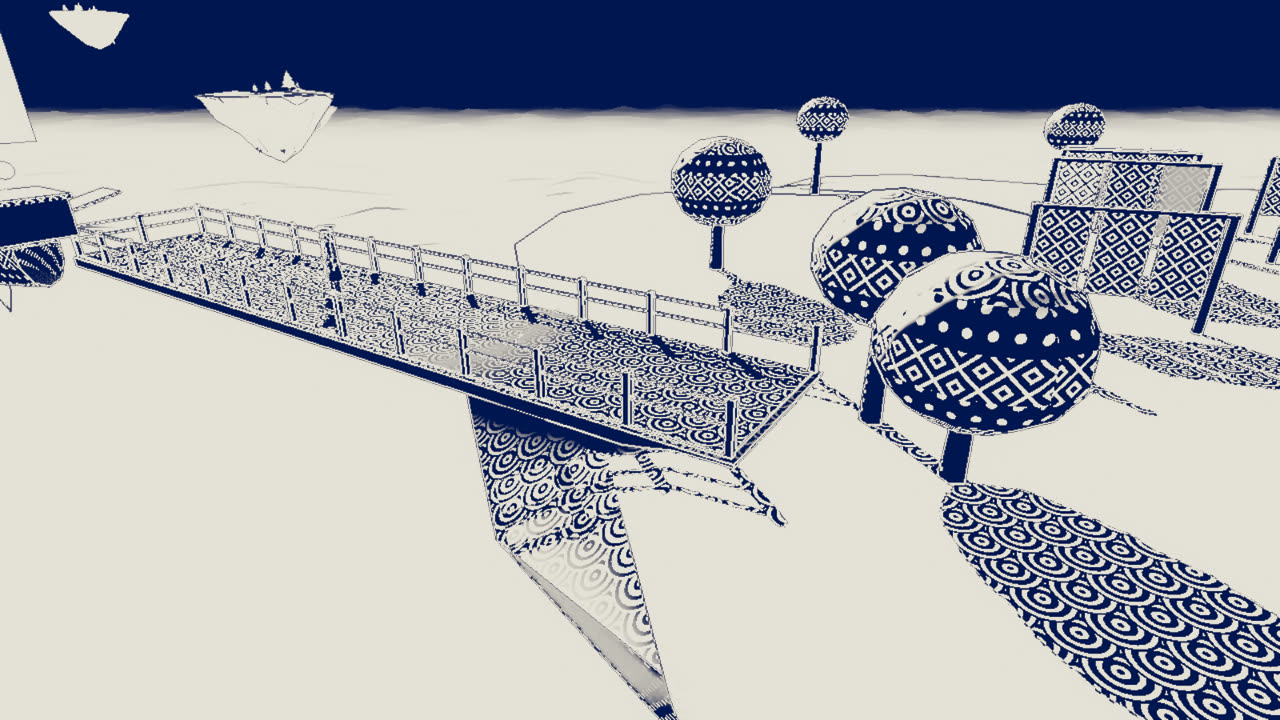
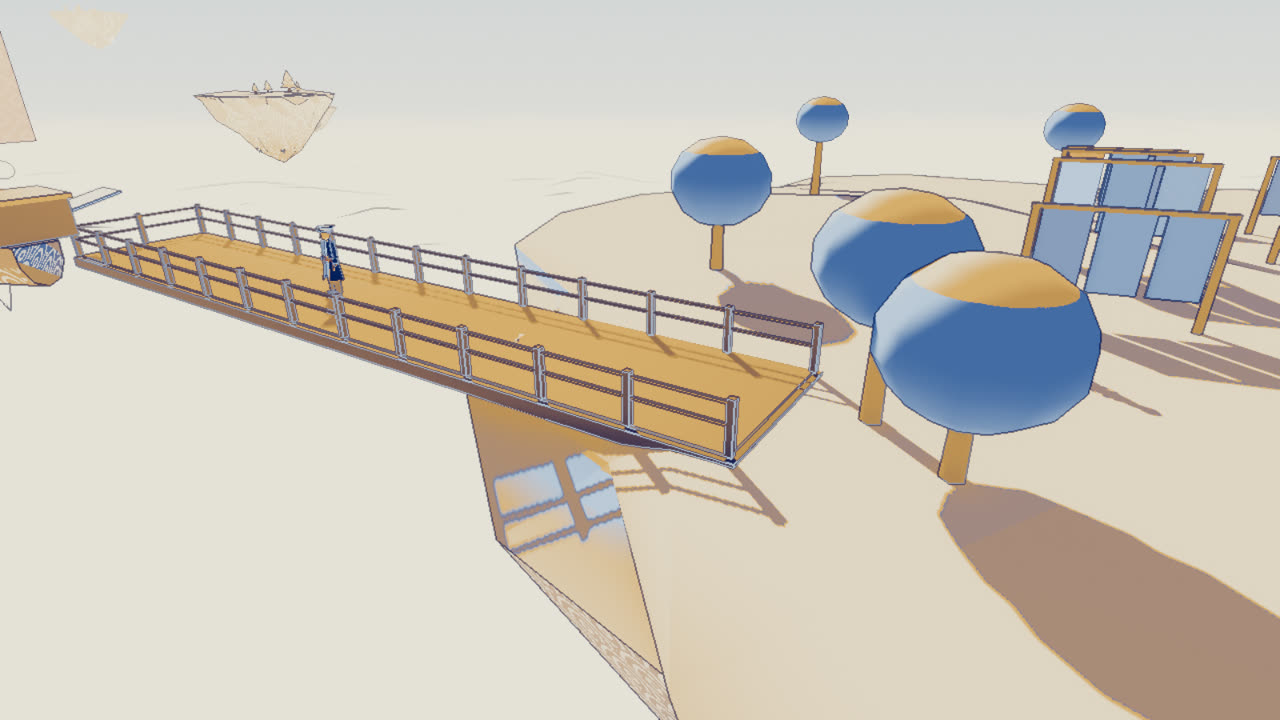
game3d: katazome reworked after sheet 28 — several blues, ochre and rust, soft tones, rare large patterns that do not shimmer (ADR-0029 revised)

diff --git a/docs/demo/G3D-techniques.md b/docs/demo/G3D-techniques.md
@@ -2,21 +2,30 @@
 
 Aika chose the techniques and drew the sheets (`docs/design/concepts/27…34`). They replace the two I had guessed.
 
-## Silk Reach — katazome (sheets 27, 28)
-Indigo `#1f2f5a` and cream `#efe6d2` with nothing between; a rare rust accent `#b5523b`; a line of the colour the
-shape is not; small patterns cut into the half-tones — waves on what faces the sky, diamonds on walls, dots on what
-leans — **laid out in world space**, so they stay on the thing when the camera moves; a cotton weave.
+## Silk Reach — katazome (sheet 28; sheet 27 for the motifs)
+The first version followed the strict sheet 27: indigo and cream only, patterns in every half-tone. Aika: "blue and
+white is too simple and hard to look at, the eyes begin to hurt, more colours are needed". It was redone after
+sheet 28: **several blues** (deep indigo `#1f2f5a`, middle `#4f6a94`, pale `#a9bcd2`), **ochre `#c79a63` and sand**
+for rock, timber and the ground, **rust `#b5523b`** for cloth and accents, **cream paper `#efe6d2`**, soft steps
+between tones. Patterns only on cloth, roofs and the cloud sea, large and faint, in world space.
 
-| Before ("printed silk") | After (katazome) |
-|---|---|
-| ![](g3d-techniques/before-silk.jpg) | ![](g3d-techniques/after-silk.jpg) |
-| ![](g3d-techniques/before-silk-houses.jpg) | ![](g3d-techniques/after-silk-houses.jpg) |
+| Before ("printed silk", my guess) | Strict katazome (sheet 27) — too harsh | Now (sheet 28) |
+|---|---|---|
+| ![](g3d-techniques/before-silk.jpg) | ![](g3d-techniques/strict-silk.jpg) | ![](g3d-techniques/after-silk.jpg) |
+| ![](g3d-techniques/before-silk-houses.jpg) | ![](g3d-techniques/strict-silk-houses.jpg) | ![](g3d-techniques/after-silk-houses.jpg) |
 
-The landing, and the second mode (V): the bare stencil, two colours and no patterns.
+The landing; and the second mode (V): the same without rust and patterns.
 
 | | |
 |---|---|
-| ![](g3d-techniques/after-silk-landing.jpg) | ![](g3d-techniques/silk-stencil.jpg) |
+| ![](g3d-techniques/after-silk-landing.jpg) | ![](g3d-techniques/silk-plain.jpg) |
+
+**On the move.** A camera walks 12 m across the island, a frame every 0.1 s (`--stroll=<dir>`). The mean change
+between neighbouring frames was 30.6 of 255 with the strict version and is 10.9 now; what is left is the motion
+itself. Recordings: [strict](g3d-techniques/walking-strict.gif), [now](g3d-techniques/walking-after.gif). Each
+pattern is faded out before its cell is smaller than about 14–30 pixels, with the angle of the surface counted in.
+
+![](g3d-techniques/silk-walking.jpg)
 
 ## Amber Cliff — pen and watercolour (sheets 29–34)
 A thin warm-grey line that trembles and presses and lifts; washes that run past the line; a lot of bare paper,
@@ -50,6 +59,7 @@ the other and ends with one style; every port tells the effect where the hero st
 ```
 godot --path game3d --resolution 1600x900 -- --views=<dir> --only=silk --ink=1      # or amber, --ink=2
 godot --path game3d --resolution 1600x900 -- --attune=<dir> --island=silk --ink=1   # or amber
+godot --path game3d --resolution 1600x900 -- --stroll=<dir> --island=silk          # a walking camera, 30 frames
 godot --path game3d --resolution 1920x1080 -- --fps=<file.json>
 ```
 
@@ -61,7 +71,8 @@ godot --path game3d --resolution 1920x1080 -- --fps=<file.json>
 
 ## Not done, not checked
 - Not played by hand.
-- Villagers on Silk Reach walk *through* the world-space pattern (it slides over them); the captain does not.
+- On Silk Reach people carry almost no pattern now (patterns are on cloth, roofs and clouds). Whether the new
+  palette is easy on the eyes over a long play is for Aika to say; frame rate was not re-measured after this rework.
 - The islands' shapes are not rebuilt to the sheets: the Japanese village, vats and banners of Silk Reach (27, 28);
   on Amber Cliff the lighthouse with the keeper's house (32), the newspaper kiosk, carousel, bicycles, flower stand
   and café chairs (33), the small house and outside stairs of the kit (30), the cliff's amber veins (29).

diff --git a/docs/design/README.md b/docs/design/README.md
@@ -5,7 +5,7 @@ Read this before changing the look of anything in `game3d/` (people, buildings, 
 Palette, light and world notes: `docs/design/game3d-style.md`. Lore: `docs/lore/world-bible.md`.
 
 > Islands: each island is drawn in a technique of its own, chosen by Aika (ADR-0026, 0029) — Spark Harbour in pen
-> and ink (the style below), Silk Reach as **katazome**, a Japanese stencil-resist print (sheets 27, 28), Amber Cliff
+> and ink (the style below), Silk Reach as **katazome**, a Japanese stencil-resist print in several blues, ochre and rust (sheet 28; 27 for the motifs), Amber Cliff
 > in **pen and watercolour**, a French travel sketchbook (sheets 29–34). The technique and its colours are a row in
 > `game3d/scripts/island_style.gd`. **The captain is redrawn in the technique of every port** by the island's wind
 > (ADR-0025); a test holds every technique to that. Pictures: `docs/demo/G3D-techniques.md`.
@@ -55,8 +55,8 @@ world; nothing is copied from a book, film or game. The palette row at the botto
 | `24-spark-harbour.jpg` | "Sheet 9 — Spark Harbour": the establishing view (mill on a stepped terrace, houses, market square, timber wharf, moored ship, rope bridges to islets, waterfall, crystals) | Spark Harbour; **not all built**: no rope bridges, islets or waterfall yet | `scripts/archipelago.gd` |
 | `25-props.jpg` | "Sheet 10 — Props": street lamp, market stall, crate, barrel, rope coil, notice board, chest, scales, ledger, spyglass, anchor, bollard, rope railing, silk rack, five picture signboards | the props of Spark Harbour (low-poly look) | `scripts/props.gd` |
 | `26-chronicler.jpg` | "Sheet 5 — The Chronicler", a **new** version: a layered slate-blue feather robe, belts, ink bottle, chained book, lantern. **Replaces `05-chronicler.jpg`** (cream cloak, blue cape) | the Chronicler in the world | `Costume._r_chronicler` |
-| `27-silk-katazome.jpg` | Silk Reach, the main sheet: **katazome** (Japanese stencil-resist print) — indigo `#1f2f5a`, cream `#efe6d2`, a rare rust `#b5523b`; cut-out silhouettes, a light line, small repeating patterns inside big shapes | the technique of Silk Reach (ADR-0029) | `shaders/ink.gdshader` (`tech == 1`), `island_style.gd` row `silk` |
-| `28-silk-katazome-loose.jpg` | Silk Reach, the secondary sheet: the same three colours, looser | reference only | — |
+| `27-silk-katazome.jpg` | Silk Reach, strict **katazome** (Japanese stencil-resist print): indigo `#1f2f5a` and cream `#efe6d2` only, patterns everywhere. **Secondary now**: Aika found it too harsh on the eyes | reference for the motifs (waves, diamonds) | — |
+| `28-silk-katazome-loose.jpg` | Silk Reach, **the main sheet**: katazome in a looser manner — several blues (deep indigo, middle, pale), sand and ochre for rock and timber, rust for cloth and accents, cream paper, soft half-tones; patterns only on big things | the technique of Silk Reach (ADR-0029) | `shaders/ink.gdshader` (`tech == 1`), `island_style.gd` row `silk` |
 | `29-amber-view.jpg` | Amber Cliff, the establishing view, in **pen and watercolour** (a French travel sketchbook) | the technique of Amber Cliff (ADR-0029); the island's shape is **not rebuilt** to it yet | `shaders/ink.gdshader` (`tech == 2`), row `amber` |
 | `30-amber-houses.jpg` | Amber Cliff, the town-house kit: mansard roof, stone base, plaster front, geranium-red door, sea-teal shutters, iron balcony | colours of `AmberCliff.townhouse`; the kit's small house and outside stairs are not built | `scripts/amber_cliff.gd` |
 | `31-amber-street.jpg` | Amber Cliff, the street of shops | reference; the game's street is wider and plainer | — |

diff --git a/docs/adr/0029-game3d-katazome-and-pen-and-watercolour.md b/docs/adr/0029-game3d-katazome-and-pen-and-watercolour.md
@@ -28,13 +28,17 @@ Forces:
 - 60 fps.
 
 ## Decision
-1. **`katazome`** replaces `dye` (technique 1). Brightness sorts the picture into cream and indigo, with nothing
-   in between; a strongly warm, saturated colour becomes the rust accent; the sky is indigo and the cloud sea cream.
-   In the middle brightnesses a small pattern is cut into the shape: waves (seigaiha) on what faces up, diamonds
-   on walls, dots elsewhere. **The pattern is laid out in world space**, on the plane the surface faces (found
-   from the depth and the normal), so it stays on the thing when the camera moves. The line is the opposite colour
-   of what it lies on: light on indigo, indigo on cream. A cotton weave lies over all. Mode 2 is the bare stencil:
-   two colours, no patterns.
+1. **`katazome`** replaces `dye` (technique 1), in the looser manner of sheet 28. *(Revised while still Proposed:
+   the first version followed sheet 27 — indigo and cream only, patterns in every half-tone. Aika: "blue and white
+   is too simple and hard to look at, the eyes begin to hurt, more colours are needed". Sheet 28 is now the main
+   one.)* The picture is sorted into two families of dyes with soft steps between their tones: **blues** (deep
+   indigo, a middle blue, a pale blue) and **earth** (ochre and sand, for rock, timber and the ground, lit or in
+   shade), both ending in cream paper. Cloth and anything truly red is **rust**. The sky is paper with a little
+   blue at the top. **Patterns are few, large and faint**: only on cloth, on roofs and on the cloud sea; they let
+   some paper through and nothing more; they are **laid out in world space**, on the plane the surface faces, so
+   they stay on the thing; and each fades out before it is small enough on screen to shimmer (its size in pixels
+   is worked out from the distance and the angle). The line is a thin deep indigo. A cotton weave lies over all.
+   Mode 2 leaves out the rust and the patterns.
 2. **`aquarelle`** replaces `claire` (technique 2). The colour is taken from a point nudged by slow noise, so the
    wash runs past the line; it is thinned towards the paper, most of all in the light and far away, so much of the
    sheet stays white; shade is a violet-grey wash, not black; pigment gathers unevenly; the paper has grain. The
@@ -68,8 +72,10 @@ Forces:
 - Villagers on Silk Reach walk through the world-space pattern (it slides over them). The hero does not. We
   notice in play; the cure would be a per-person anchor.
 - World position from depth loses precision far away; the pattern is faded out with distance to hide it.
-- A two-colour picture hides anything that is told apart only by hue. The trading post must still read: checked on
-  the pictures in `docs/demo/G3D-techniques.md`.
+- Which family a thing belongs to is guessed from its colour and from which way it faces (the effect sees no
+  materials): a grey-green thing may land in the wrong family. We notice on the pictures.
+- "Easy on the eyes" is measured only roughly: the mean change between frames of a walking camera
+  (`--stroll`) fell from 30.6 to 10.9 of 255. Aika's eyes are the real test.
 - The watercolour takes four more samples of the picture per pixel; watched with `--fps`.
 - The line of the watercolour is still an edge filter, not a hand: it trembles, it does not draw.
 

diff --git a/DECISIONS.md b/DECISIONS.md
@@ -420,9 +420,12 @@ Build and CI
 - House signboards carry pictures only (anchor, quill, coin, sail, loaf), chosen by the house's own random seed.
 
 ## G3D techniques (ADR-0029)
-- Katazome: cream above brightness 0.50–0.53, indigo below; patterns only between 0.36 and 0.62 and nearer than
-  28–60 m; pattern cells 0.8 m (waves), 0.55 m (diamonds), 0.3 m (dots). The rust accent is taken only where red is
-  1.6 times the other channels *as seen* (after gamma): timber is not rust, a red roof and a red sash are.
+- Katazome (after sheet 28): two families of tones with soft steps — blues (deep → middle at 0.22–0.36 → pale at
+  0.42–0.58 → cream at 0.66–0.84) and earth (ochre, sand; cream only above 0.86). A thing is earth if it is warmer
+  than it is blue, or if it is the ground (facing up, above the cloud sea), lit or in shade. Cloth = upright,
+  coloured, bright, not green: warm cloth is rust, cool cloth middle blue. Patterns only on cloth (cell 1.1 m),
+  roofs (1.5 m) and the cloud sea (14 m); they lighten the tone by 55 % towards cream; faded out below 14–30 px a cell.
+- `--stroll` and the mean change between frames is the rough measure of shimmer.
 - The hero's column for patterns is 0.75 m wide and separate from the wave's column.
 - Watercolour: the wash is read 11 px aside at most (at 1080p) and averaged over four neighbours; it is thinned to
   50–95 % by brightness and by half again with distance; the line is moved up to 1.6 px by slow noise.

diff --git a/game3d/README.md b/game3d/README.md
@@ -27,7 +27,7 @@ trapped and walks through nothing he can see, villagers can finish their strolls
 
 ## World audit and measurements (`docs/demo/G3D-polish.md`)
 `godot --path game3d -- --audit=<dir>` (every problem with a picture, `audit.json`; about a minute, `--only=harbour|silk|hall` for one place), `--views=<dir>` (fixed views),
-`--gait=<dir>` (idle, walk, run, a doorstep), `--talk=<dir>` (every talk as comic pages; ADR-0027), `--read=<dir>` (Amber Cliff's prompts and signs, then with T), `--attune=<dir>` (the island's wind restyling the captain, a frame every 0.1 s; ADR-0025), `--people=<dir>` (line-up of the costumes; `--plain` = as downloaded), `--fps=<file.json>` (run at 1920x1080), `--profile=1` (cost of each
+`--gait=<dir>` (idle, walk, run, a doorstep), `--talk=<dir>` (every talk as comic pages; ADR-0027), `--stroll=<dir>` (a walking camera, to look for shimmer), `--read=<dir>` (Amber Cliff's prompts and signs, then with T), `--attune=<dir>` (the island's wind restyling the captain, a frame every 0.1 s; ADR-0025), `--people=<dir>` (line-up of the costumes; `--plain` = as downloaded), `--fps=<file.json>` (run at 1920x1080), `--profile=1` (cost of each
 effect). `--sdfgi` turns SDFGI on (off by default: it cost ~9 fps and a long frame after every camera jump).
 
 ## Layout
